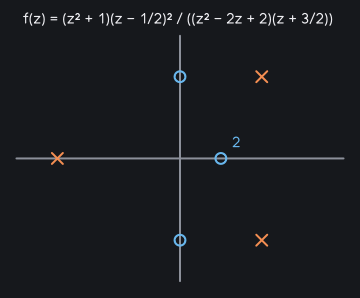
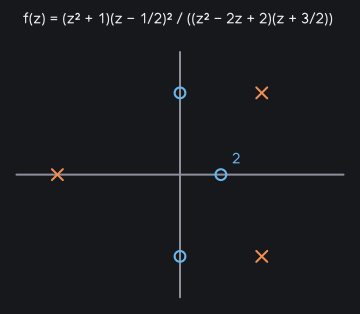
Zeros and poles: the title clear of the axis; grid decorations documented

diff --git a/docs/DESIGN.md b/docs/DESIGN.md
@@ -873,7 +873,9 @@ compared with the object. The choices:
 * **Grids and lattices.** A grid's marked cells are tinted when they carry text and filled opaque
   when they do not (an Ulam spiral), the filled ones a twelfth of a unit inside their square and
   the tinted ones a sixteenth, so that marked neighbours stand apart and no stroke lies on a
-  fill. A lattice's coefficients are bounded
+  fill. A grid can ring one cell (the Ulam spiral rings `1`, its start) and write a legend below
+  its cells: a sample of the marked fill and what it means (the sieve: a prime; the table of
+  residues: a nonzero square mod `p`); both are decorations its `Faithful` accounts for. A lattice's coefficients are bounded
   from the window by Cramer's rule, rounded up; the core proves that the dots are the candidates
   in the window, and `pilean-mathlib` that the bound covers every lattice point of the window
   (inequalities over ℚ are Mathlib's). Points on the axes record that they are on them
